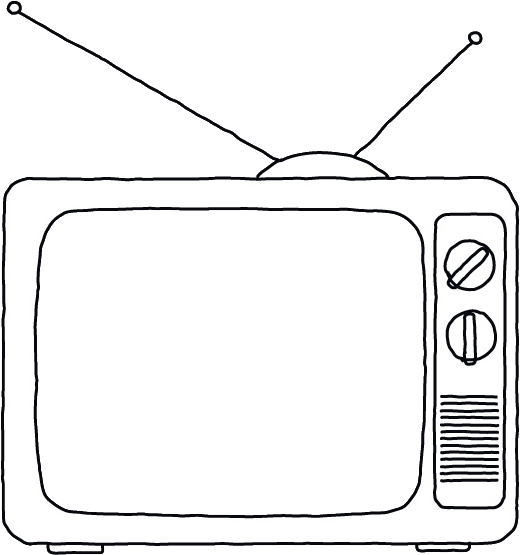
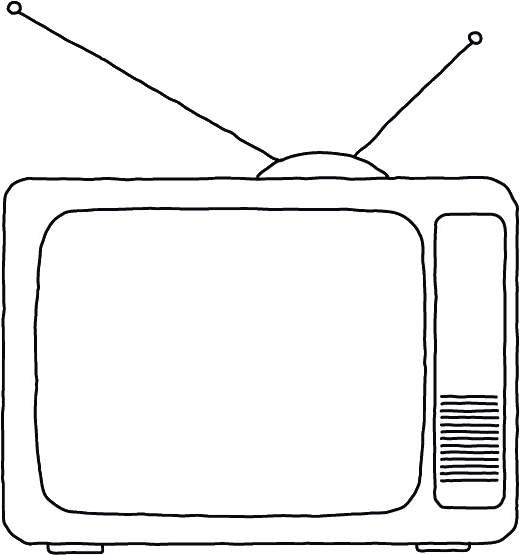
video

Changed region(s): [[0.8308, 0.4288, 0.9538, 0.6739]]

diff --git a/components/Shared/AppVideo.vue b/components/Shared/AppVideo.vue
@@ -1,0 +1,117 @@
+<template>
+  <center-wrapper size="md">
+    <div :class="$style.wrapper">
+      <div :class="$style['video-wrapper']">
+        <iframe
+          v-if="start"
+          :class="$style.video"
+          title="Workshop creatief schrijven met Loesje"
+          width="500"
+          height="281"
+          :src="videoUrl"
+          frameborder="0"
+          allow="accelerometer; autoplay; clipboard-write; encrypted-media; gyroscope; picture-in-picture"
+          allowfullscreen
+        />
+        <img
+          v-else
+          :src="videoThumb"
+          alt=""
+          :class="$style.placeholder"
+          @click="playVideo"
+        />
+      </div>
+      <button :class="$style['btn-video']" @click="playVideo">
+        <img
+          src="/images/btn-video.png"
+          alt="Video afspelen"
+          :class="$style['icon-play']"
+        />
+      </button>
+      <img src="/images/television.png" alt="" :class="$style.image" />
+    </div>
+  </center-wrapper>
+</template>
+
+<script>
+import { defineComponent, computed, ref } from '@nuxtjs/composition-api'
+
+export default defineComponent({
+  props: {
+    video: {
+      type: String,
+      required: true,
+    },
+  },
+  setup(props) {
+    const start = ref(false)
+    const playVideo = () => {
+      start.value = true
+    }
+    const videoThumb = computed(() => {
+      return `http://i3.ytimg.com/vi/${props.video}/maxresdefault.jpg`
+    })
+    const videoUrl = computed(() => {
+      return `https://www.youtube.com/embed/${props.video}?feature=oembed&autoplay=1&showinfo=0`
+    })
+    return {
+      videoThumb,
+      videoUrl,
+      start,
+      playVideo,
+    }
+  },
+})
+</script>
+
+<style lang="postcss" module>
+.placeholder,
+.video {
+  display: block;
+  width: 100%;
+  height: 100%;
+}
+
+.placeholder {
+  object-fit: cover;
+  filter: sepia(0.75) contrast(0.75) brightness(1.25) saturate(1.4);
+  cursor: pointer;
+}
+
+.wrapper {
+  position: relative;
+  max-width: var(--container-width-sm);
+  margin: 0 auto 4em;
+  transform: rotate(2deg);
+}
+
+.video-wrapper {
+  top: 37%;
+  left: 4%;
+  right: 16%;
+  position: absolute;
+  aspect-ratio: 4 / 3;
+}
+
+.image {
+  position: relative;
+  pointer-events: none;
+  display: block;
+  width: 100%;
+  height: auto;
+}
+
+.btn-video {
+  position: absolute;
+  top: 50%;
+  width: 10%;
+  left: 85%;
+  z-index: 9;
+}
+
+.icon-play {
+  display: block;
+  width: 100%;
+  height: 100%;
+}
+</style>

diff --git a/components/Blocks/FormWorkshop.vue b/components/Blocks/FormWorkshop.vue
@@ -1,7 +1,7 @@
 <template>
   <center-wrapper size="md">
     <app-form
-      name="workshop"
+      :class="$style.form"
       :submitted="submitted"
       :loading="loading"
       @submit="submit"
@@ -35,20 +35,25 @@
             maxlength="50"
           />
         </form-field>
-        <form-input-text
-          id="phoneNumber"
-          v-model="$v.phoneNumber.$model"
-          title="Telefoonnummer"
-          type="tel"
-          name="phoneNumber"
-          autocomplete="tel"
-        />
-        <form-input-text
-          id="companyName"
-          v-model="$v.companyName.$model"
-          title="Bedrijfsnaam"
-          name="companyName"
-        />
+        <form-field id="phoneNumber" title="Streefdatum">
+          <input
+            id="phoneNumber"
+            v-model="$v.phoneNumber.$model"
+            title="Telefoonnummer"
+            type="tel"
+            name="phoneNumber"
+            autocomplete="tel"
+          />
+        </form-field>
+        <form-field id="companyName" title="Streefdatum">
+          <input
+            id="companyName"
+            v-model="$v.companyName.$model"
+            type="text"
+            title="Bedrijfsnaam"
+            name="companyName"
+          />
+        </form-field>
         <form-field
           id="totalAttendees"
           :errors="$v.totalAttendees.$errors"
@@ -62,14 +67,11 @@
           />
         </form-field>
 
-        <form-input-text
-          id="date"
-          v-model="$v.date.$model"
-          title="Streefdatum"
-          type="date"
-          name="date"
-        />
+        <form-field id="date" title="Streefdatum">
+          <input id="date" v-model="$v.date.$model" type="date" name="date" />
+        </form-field>
       </form-fieldset>
+      <img src="/images/workshops.png" alt="" :class="$style.image" />
     </app-form>
   </center-wrapper>
 </template>
@@ -140,3 +142,25 @@ export default defineComponent({
   },
 })
 </script>
+
+<style module lang="postcss">
+.form {
+  position: relative;
+
+  @media (--viewport-md) {
+    padding: 0 15em 2em 0;
+  }
+}
+
+.image {
+  display: none;
+
+  @media (--viewport-md) {
+    display: block;
+    bottom: 3em;
+    right: 3em;
+    transform: scaleX(-1);
+    position: absolute;
+  }
+}
+</style>

diff --git a/pages/workshops.vue b/pages/workshops.vue
@@ -1,6 +1,5 @@
 <template>
   <div v-if="page" class="page">
-    <form-workshop />
     <center-wrapper>
       <div :class="$style.wrapper">
         <app-content
@@ -8,24 +7,10 @@
           :content="page.content"
           :class="$style.content"
         />
-        <div>
-          <div :class="$style['video-wrapper']">
-            <iframe
-              loading="lazy"
-              :class="$style.video"
-              title="Workshop creatief schrijven met Loesje"
-              width="500"
-              height="281"
-              src="https://www.youtube.com/embed/1Pr__G4H4sg?feature=oembed"
-              frameborder="0"
-              allow="accelerometer; autoplay; clipboard-write; encrypted-media; gyroscope; picture-in-picture"
-              allowfullscreen
-            />
-            <img src="/images/television.png" alt="" :class="$style.frame" />
-          </div>
-        </div>
+        <app-video video="1Pr__G4H4sg" :class="$style.video" />
       </div>
     </center-wrapper>
+    <form-workshop />
     <related-posters-section :related-posters="page.relatedPosters" />
     <related-products-section :related-products="page.relatedProducts" />
   </div>
@@ -61,30 +46,17 @@ export default {
 
   display: grid;
   grid-gap: var(--gutter);
-  grid-template-columns: 2fr 1fr;
-}
 
-.video {
-  width: 100%;
-  height: 100%;
-  top: 30%;
-  left: 3%;
-  right: 10%;
+  @media (--viewport-lg) {
+    grid-template-columns: auto 25em;
+  }
 }
 
 .content :global(.video) {
   display: none;
 }
 
-.video-wrapper {
-  position: relative;
-  aspect-ratio: 4 / 3;
-}
-
-.frame {
-  position: relative;
-  display: block;
-  width: 100%;
-  height: auto;
+.video {
+  margin-top: 2em;
 }
 </style>

diff --git a/components/Forms/AppForm.vue b/components/Forms/AppForm.vue
@@ -5,7 +5,6 @@
 
   <form
     v-else
-    :name="name"
     action
     method="post"
     novalidate
@@ -23,10 +22,6 @@ export default defineComponent({
     buttonTitle: {
       type: String,
       default: 'Verzenden',
-    },
-    name: {
-      type: String,
-      required: true,
     },
     submitted: {
       type: Boolean,
